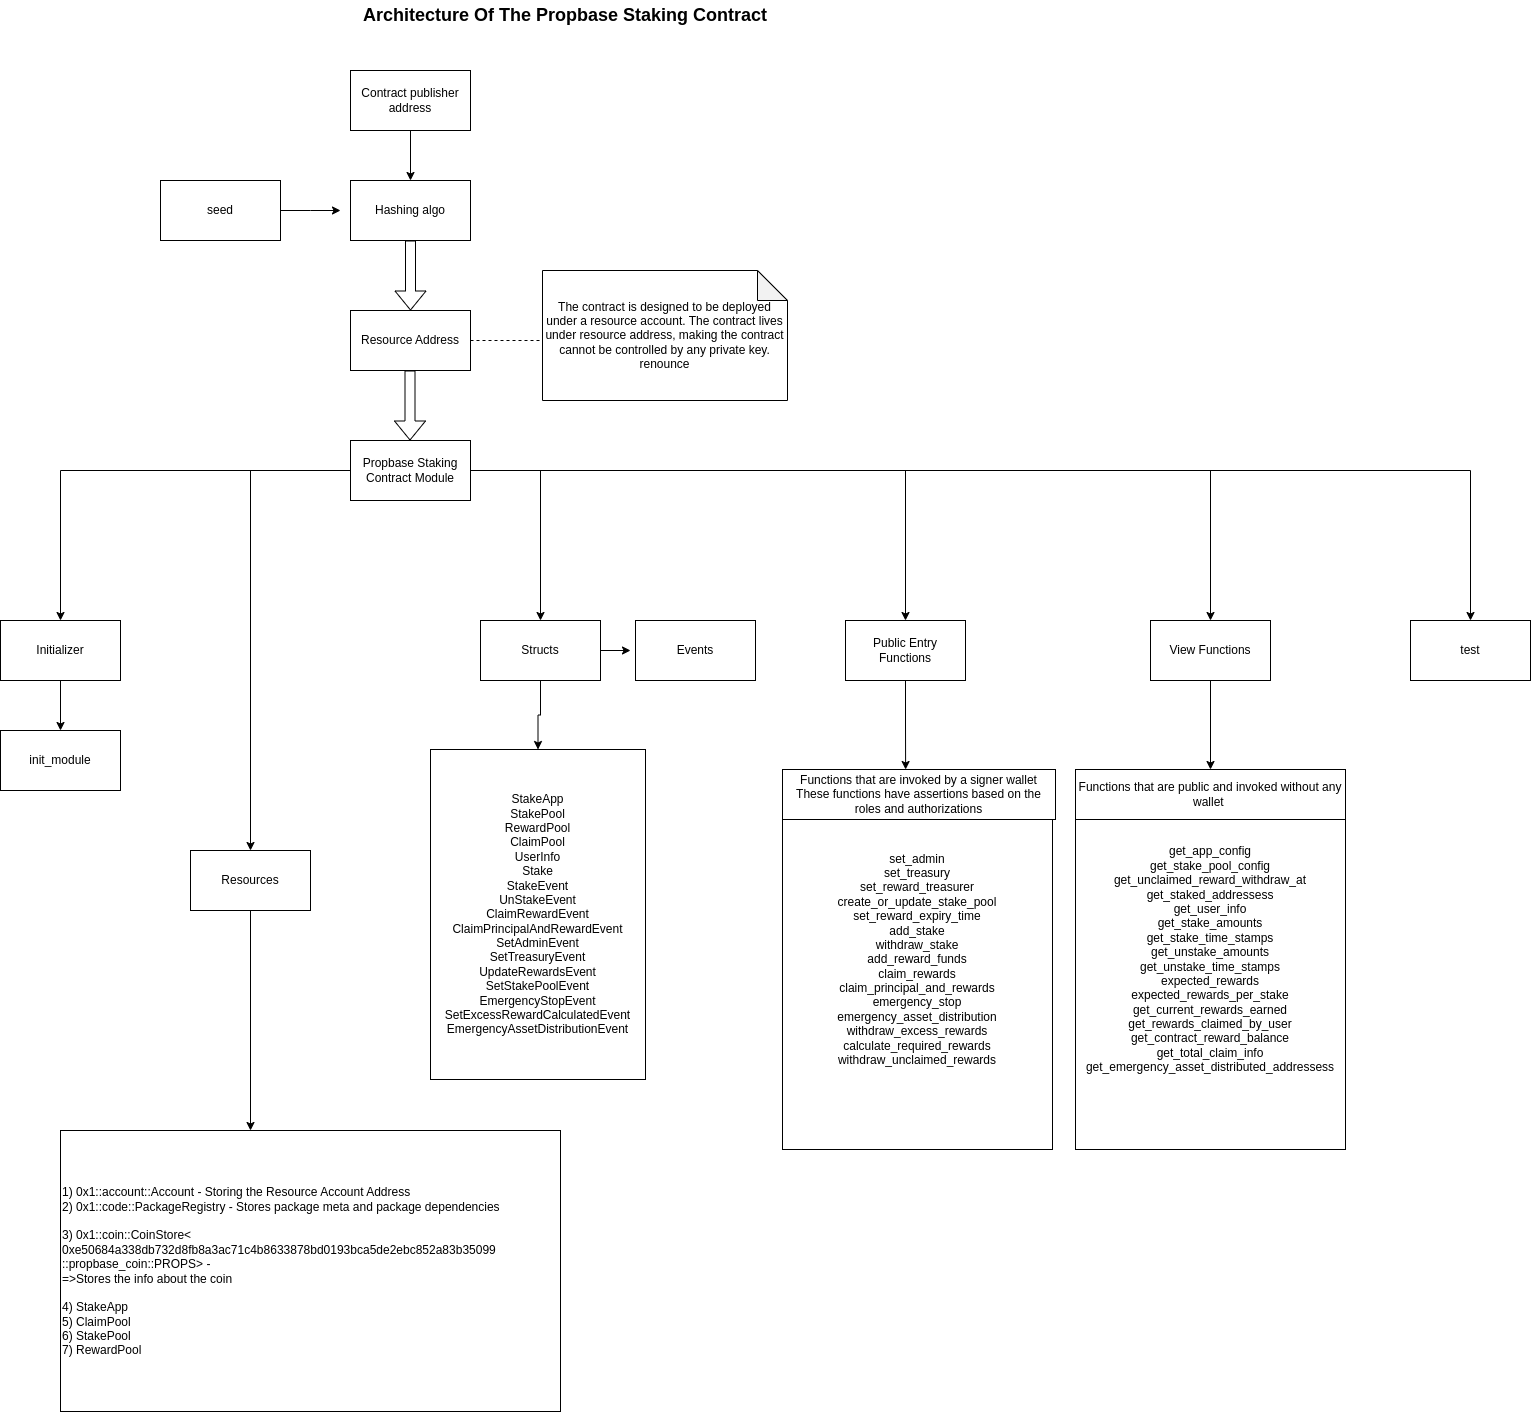
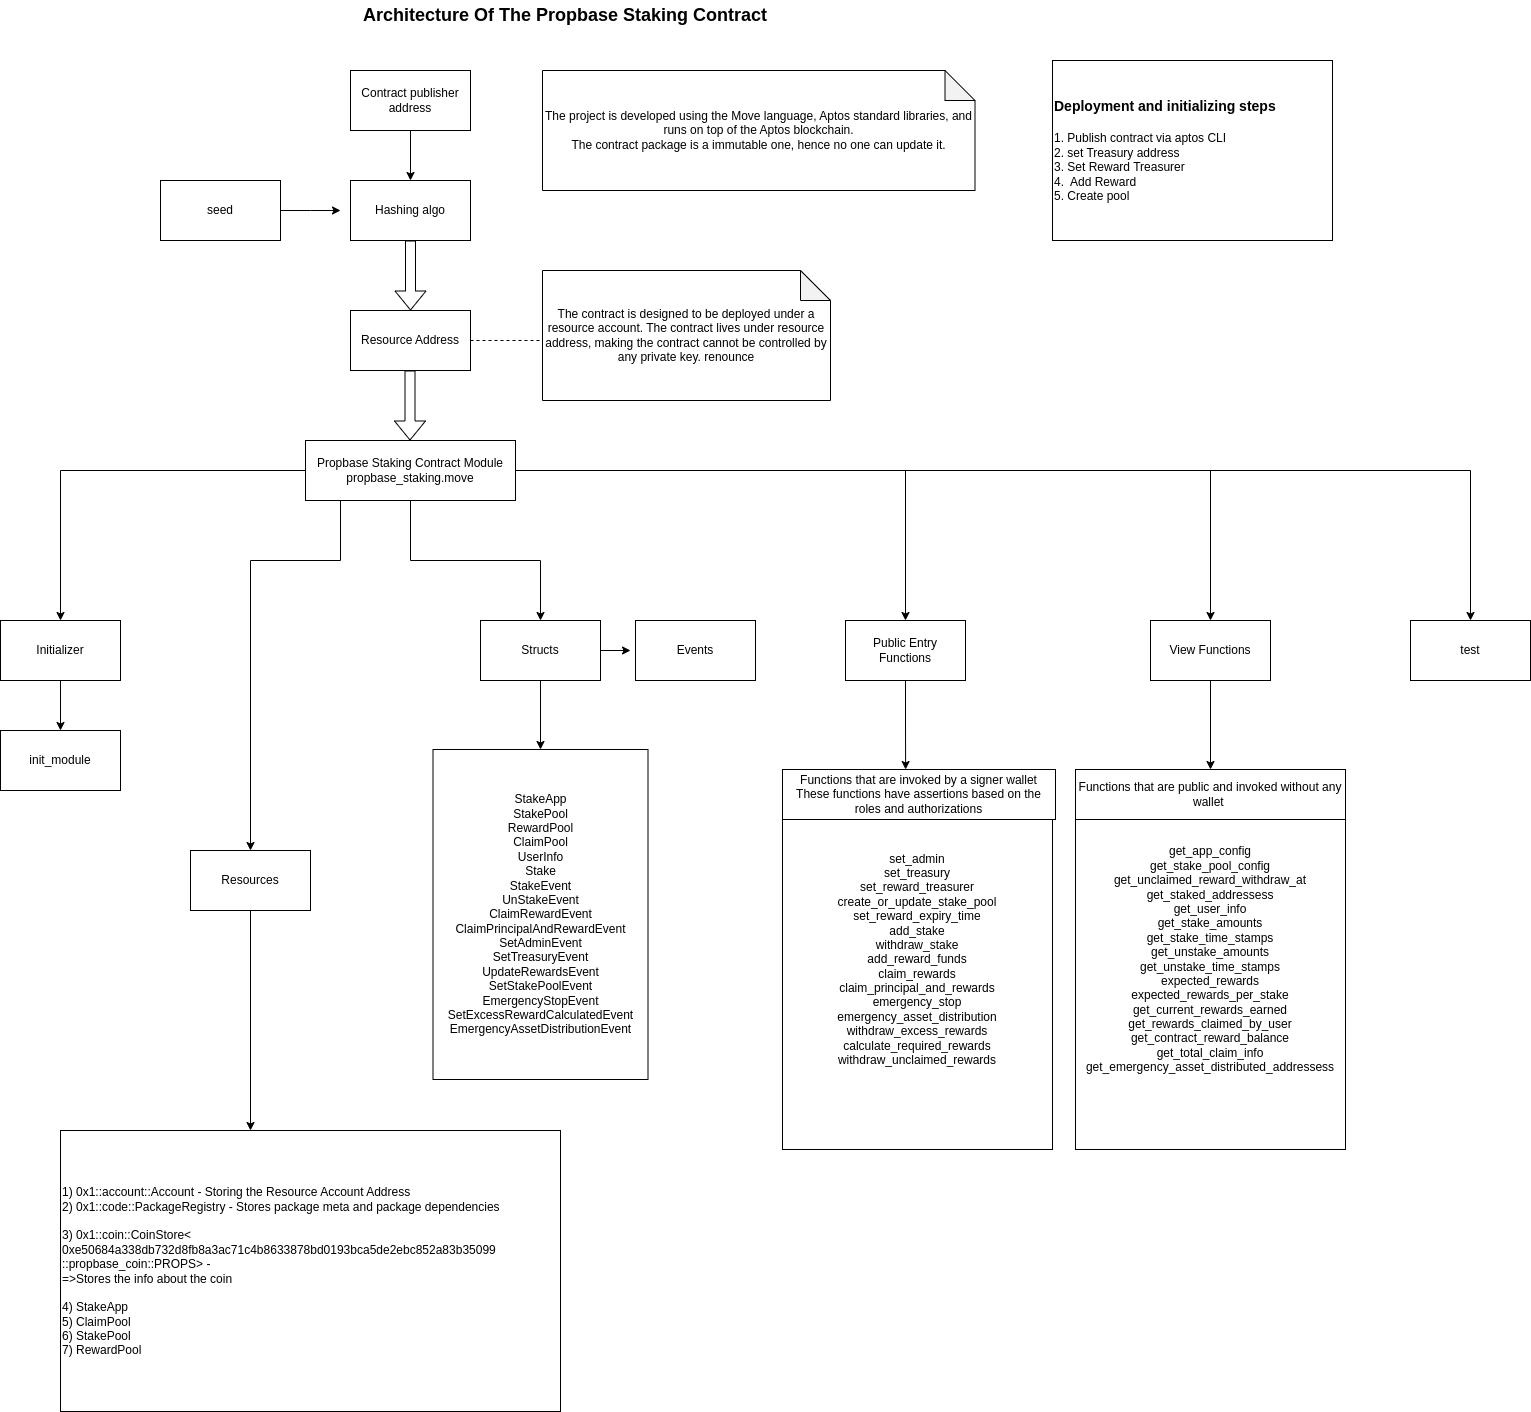
docs

diff --git a/README.md b/README.md
@@ -25,9 +25,11 @@ The project is developed using the Move language, Aptos standard libraries, and 
 
 The contract is designed to be deployed under a resource account. The contract lives under the resource address, making the contract cannot be controlled by any private key. Read more about resource account [here](https://aptos.dev/move/move-on-aptos/resource-accounts).
 
-The package is a immutable one, hence no one can update this.
+The contract package is a immutable one, hence no one can update it.
 
 Commands to install aptos CLI and initializing commands are given below.
+
+The folder structure is explained in [project_folder_structure.png](https://github.com/Propbase-Application/propbase_staking_blockchain/tree/main/docs/project_folder_structure.png).
 
 The package meta info and dependent aptos librabries are mentioned in [Move.toml](https://github.com/Propbase-Application/propbase_staking_blockchain/blob/main/Move.toml).
 
@@ -39,12 +41,11 @@ The contract architecture diagram is given at [Propbase_contract_architecture_di
 
 Contract source files are at [propbase_staking.move](https://github.com/Propbase-Application/propbase_staking_blockchain/tree/main/sources/propbase_staking.move).
 
-Test files are here at ...
-Commands are mentioned down below.
+Test files are here at [propbase_staking_tests.move](https://github.com/Propbase-Application/propbase_staking_blockchain/tree/main/tests/propbase_staking_tests.move). Commands for testing are mentioned down below.
 
-Deployment
+Deployment commands are given down below.
 
-/docs
+All the docs are available at [docs](https://github.com/Propbase-Application/propbase_staking_blockchain/tree/main/docs)
 
 ## Install Aptos CLI
 
@@ -99,9 +100,13 @@ aptos move compile  --named-addresses source_addr=12347d47a9b0ac564856168b68fff0
 
 ## Test
 
-Explain test files - PROP.move
-contract
-100%
+Test files are here at [propbase_staking_tests.move](https://github.com/Propbase-Application/propbase_staking_blockchain/tree/main/tests/propbase_staking_tests.move). Commands for testing are mentioned down below.
+
+There is a PROP.move with address 0x1 to mimick the $PROPS coin in test cases. Hence this 0x1 address needs to be hard coded in the contract and in Move.html for running tests.
+
+Since the contract uses resourse account, for testing the contract, we need to create a different resource address. This creates a situation where the signer capability are different for test mode and non-test mode. Hence some functions where signer capability are directly required as in init_module are not directly testable in test mode. Here we wont be able to achieve the test coverage.
+
+Commands to run tests are as follows:
 
 Add the following line in Move.toml under [addresses]
 
